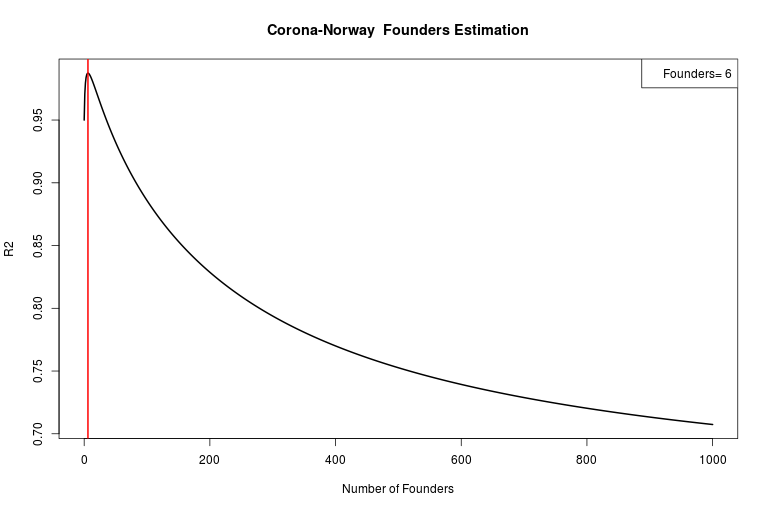
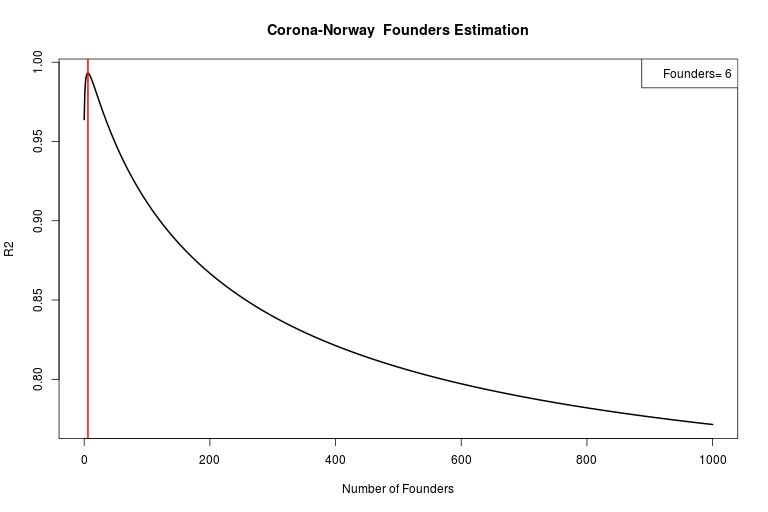
Updated model on 13.03.2020

diff --git a/README.md b/README.md
@@ -1,5 +1,5 @@
 # COVID-19_Global_Model
-Model for COVID-19 Situation Outside China
+Model for COVID-19 Situation in Norway
 
 ![](FoundersEstimation.png)
 ![](Log10Trend.png)
